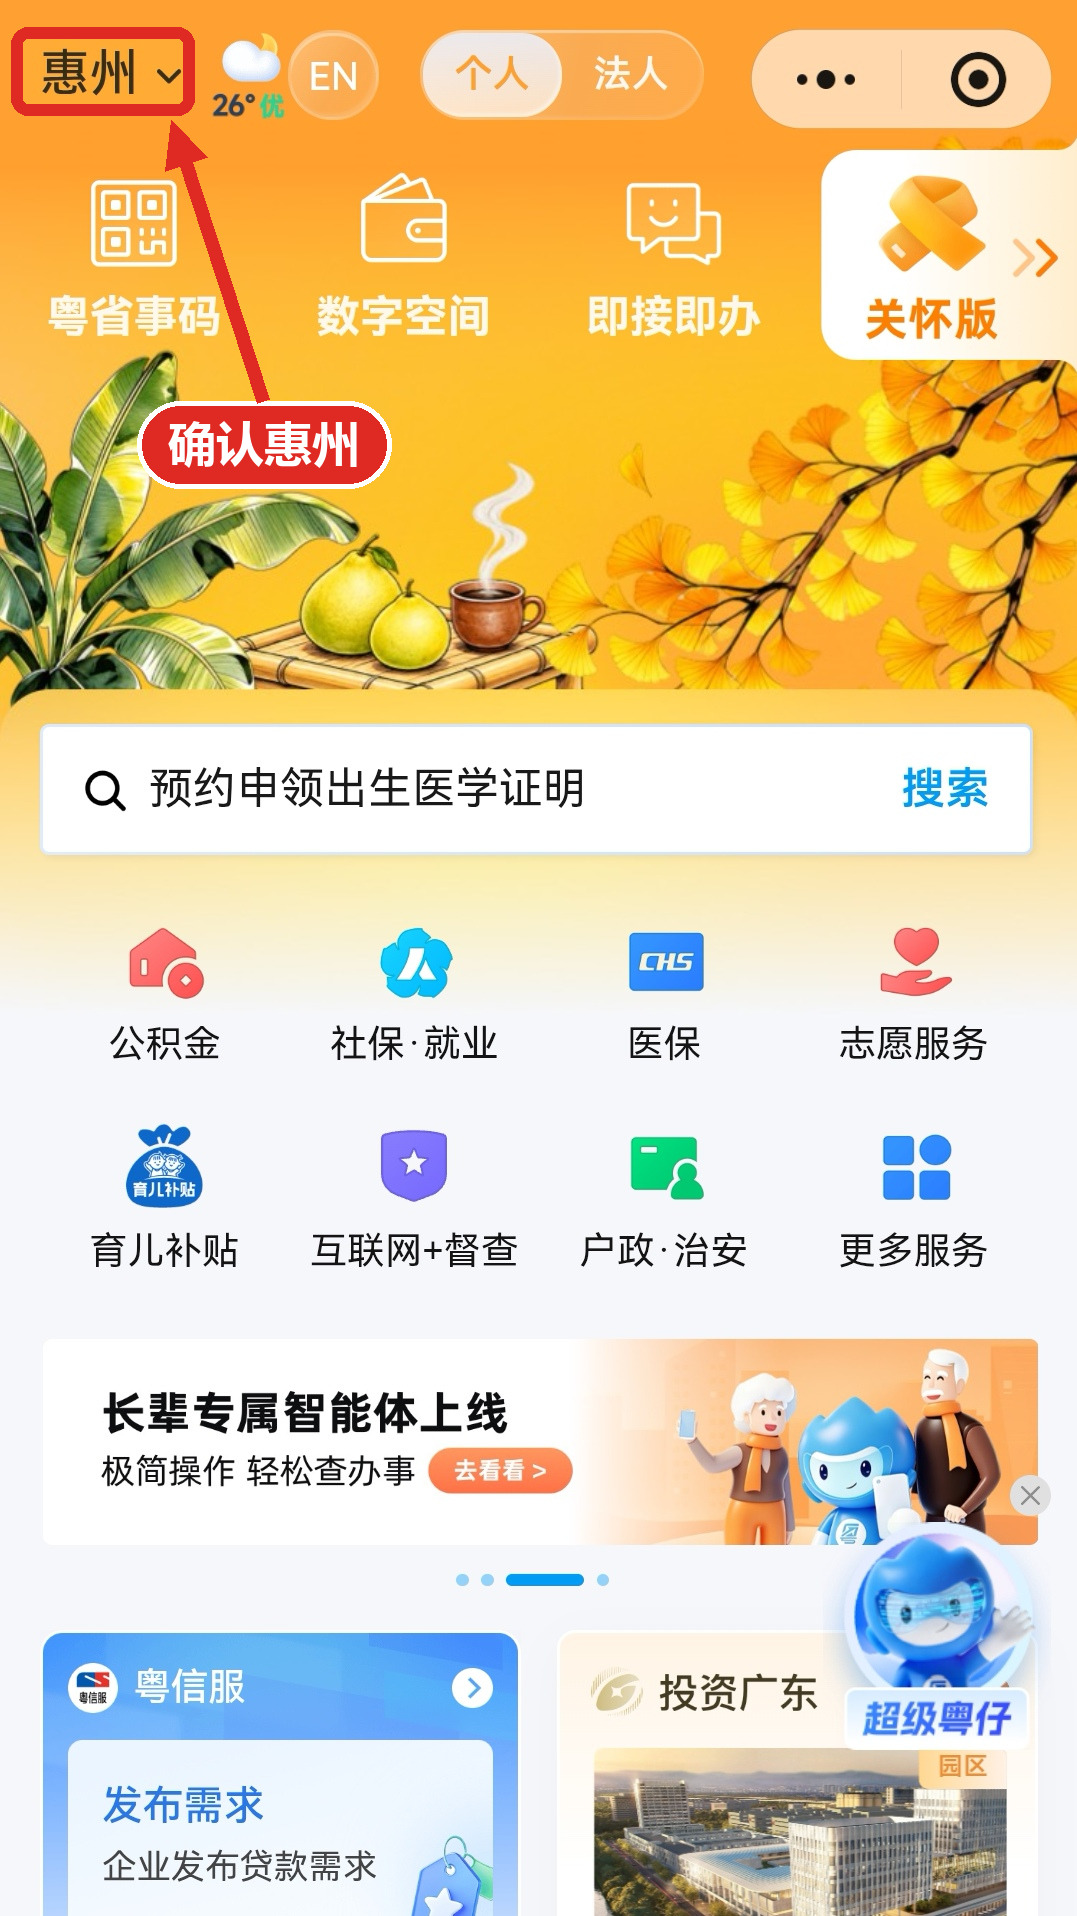
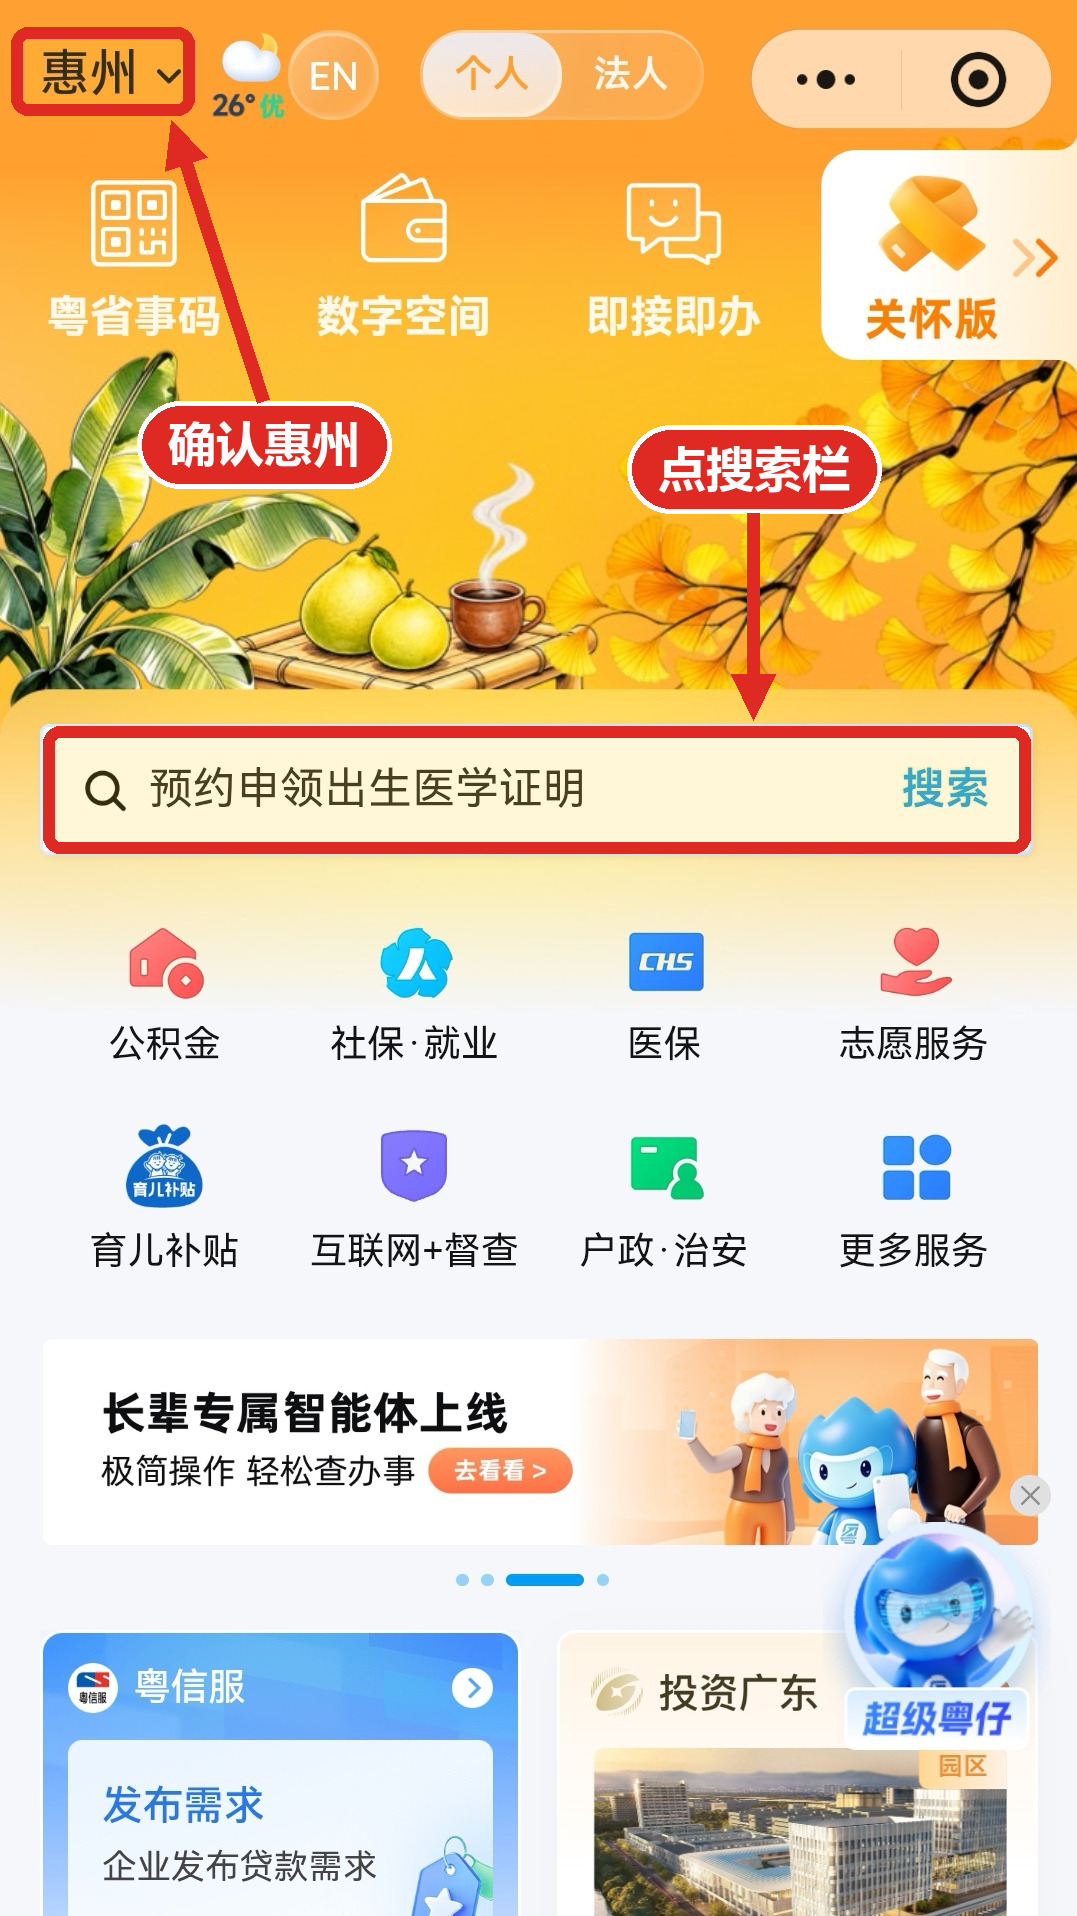
Annotate all 11 screenshots with red tap-target boxes and arrows

Changed region(s): [[0.0306, 0.2156, 0.9805, 0.4619]]

diff --git a/index.html b/index.html
@@ -454,12 +454,12 @@
         <span class="step-no">01</span>
         <h3 class="step-title">打开粤省事，确认城市是「惠州」</h3>
       </div>
-      <p class="step-desc">微信搜索并打开「粤省事」小程序。看<b>左上角</b>是否显示「<b>惠州</b>」——图中显示惠州和气温 26℃，说明定位正确。若显示其他城市，<b>点击城市名即可切换</b>。</p>
+      <p class="step-desc">微信搜索并打开「粤省事」小程序。先看<b>左上角</b>是否显示「<b>惠州</b>」——图中显示惠州和气温 26℃，说明定位正确；若显示其他城市，<b>点击城市名即可切换</b>。确认后，<b>点下方的搜索栏</b>。</p>
       <div class="shot-box">
         <img class="shot" loading="lazy" decoding="async" src="01_粤省事首页_定位惠州.jpg" alt="粤省事首页，左上角显示惠州" width="576" height="1024">
         <span class="zoom-hint">点击放大</span>
       </div>
-      <p class="shot-note">首页左上角显示「惠州」</p>
+      <p class="shot-note">先确认「惠州」，再点搜索栏</p>
     </article>
 
     <article class="step reveal">
@@ -467,7 +467,7 @@
         <span class="step-no">02</span>
         <h3 class="step-title">点搜索框，输入「业主」二字</h3>
       </div>
-      <p class="step-desc">点击首页的搜索输入栏，跳转到搜索页面，输入「<b>业主</b>」，下方立即出现「<b>业主投票决议</b>」。</p>
+      <p class="step-desc">点搜索栏后跳转到搜索页面，输入「<b>业主</b>」，下方立即出现「<b>业主投票决议</b>」。</p>
       <div class="shot-box">
         <img class="shot" loading="lazy" decoding="async" src="02_搜索业主_出现业主投票决议入口.jpg" alt="搜索页输入业主" width="576" height="1024">
         <span class="zoom-hint">点击放大</span>
